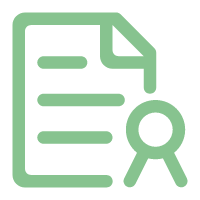
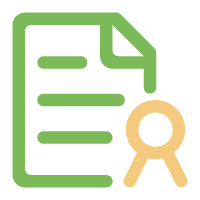
修改样式和图标

diff --git a/pages/bill/bill.js b/pages/bill/bill.js
@@ -193,11 +193,6 @@ Page({
             icon: 'success',
             duration: 500,
             success: function () {
-              setTimeout(function () {
-                wx.navigateBack({
-                  delta: 1
-                })
-              }, 500)
             }
           })
         }else if(res.statusCode == 400){
@@ -206,11 +201,6 @@ Page({
             icon: 'fail',
             duration: 500,
             success: function () {
-              setTimeout(function () {
-                wx.navigateBack({
-                  delta: 1
-                })
-              }, 500)
             }
           })
         }

diff --git a/pages/apply_list/apply_list.js b/pages/apply_list/apply_list.js
@@ -52,10 +52,9 @@ Page({
 
   },
   onLoad:function(){
-    util.getApplyList();
   },
   onShow: function () {
-    console.log("重新读取授权列表，申请列表");
+    util.getApplyList();
     this.setData({
       granteeUnautho: wx.getStorageSync('granteeUnautho'),
       granteeAutho: wx.getStorageSync('granteeAutho'),
@@ -64,8 +63,6 @@ Page({
   },
 
   toDetail: function (e) {
-    console.log('申请列表点击事件');
-    console.log(e);
     let index = e.currentTarget.id;
     let url_ = '../authorize/authorize?' + 'tp=' + e.target.dataset["tp"]
     if (e.target.dataset["tp"] == '4') {

diff --git a/pages/Autho_other/Autho_other.js b/pages/Autho_other/Autho_other.js
@@ -48,7 +48,6 @@ Page({
 
   /* 加载页面 */
   onLoad: function () {
-    util.getAuthoList();
   },
   onShow:function(){
     util.getAuthoList();
@@ -57,7 +56,6 @@ Page({
       grantorAutho: wx.getStorageSync('grantorAutho'),
       grantorUnauthoRefuse: wx.getStorageSync('grantorUnauthoRefuse')
     })
-    console.log(this.data.grantorUnauthoRefuse);
   },
 
   toDetail: function (e) {

diff --git a/pages/table/table.js b/pages/table/table.js
@@ -49,6 +49,7 @@ Page({
       {
         '基本每股收益': 0,
         '稀释每股收益': 1,
+        '': 2,
       },
     ],
     profitView: [],   //最终呈现条目
@@ -204,6 +205,7 @@ Page({
       },
       {
         '期末现金及现金等价物余额': 0,
+        '': 1,
       },
     ],
     cashFlowView: [], //最终呈现条目

diff --git a/pages/regist_company/regist_company.js b/pages/regist_company/regist_company.js
@@ -118,7 +118,8 @@ Page({
         data: {
           'loginFlag': wx.getStorageSync('loginFlag'),
           'companyName': this.data.companyName,
-          'phonenumber': this.data.phone,
+          'phone': this.data.phone,
+          'businessScope': 'xx',
           'code': this.data.code,
         },
         method: 'POST',
